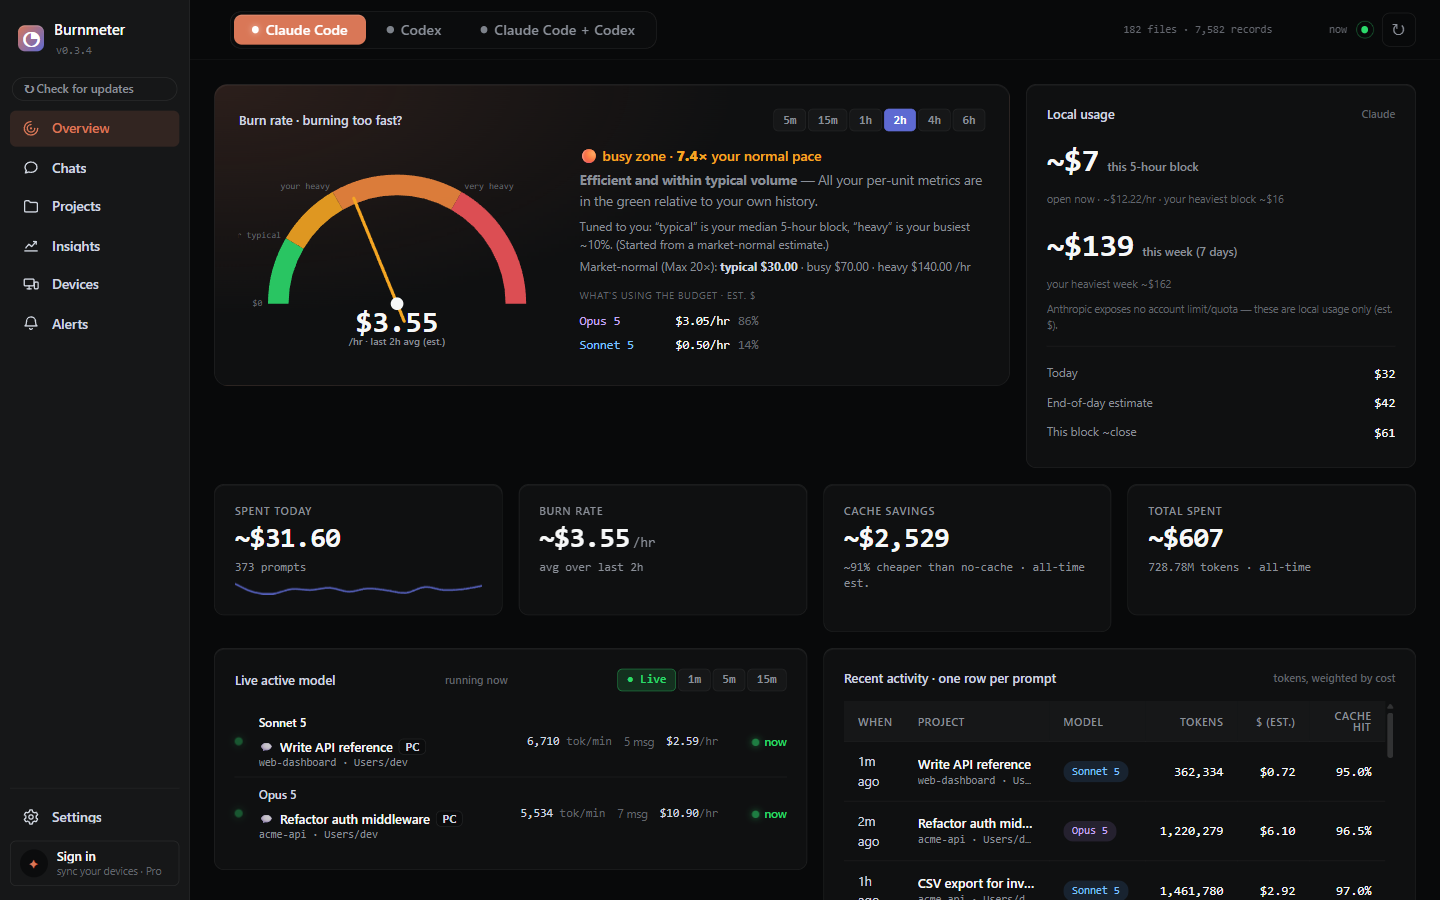
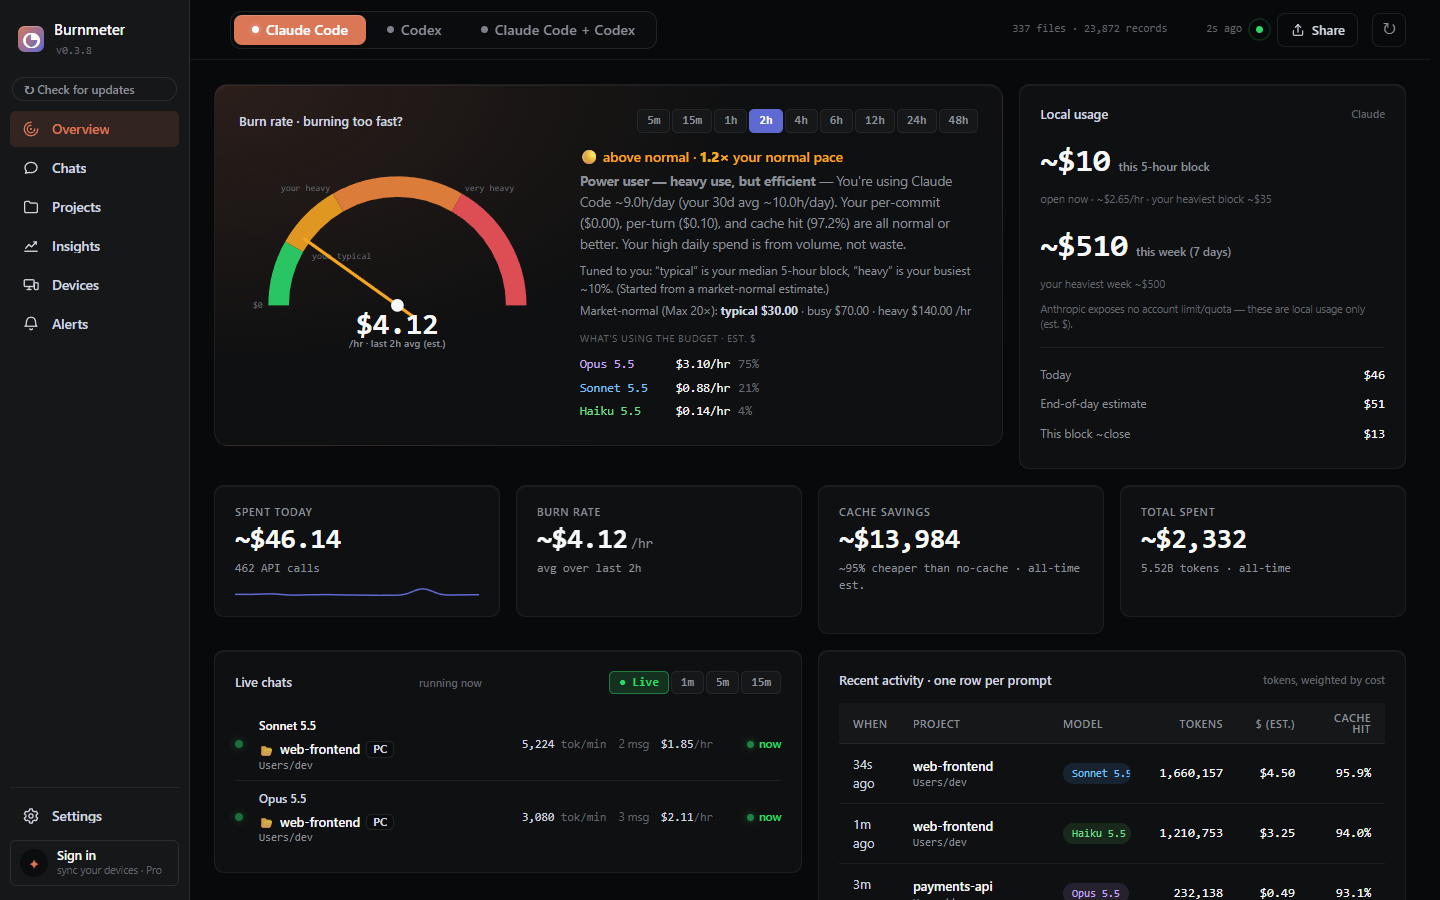
docs(site): current dashboard screenshot; preview label without a version
The burnmeter.dev preview was a v0.3.4 screenshot labelled v0.3.4. It is
now a v0.3.8 screenshot of the synthetic heavy demo logs (burn-rate windows,
live chats), and the label no longer names a version, so it can't go stale.

diff --git a/docs/index.html b/docs/index.html
@@ -197,11 +197,11 @@ footer{border-top:1px solid var(--b1);padding:48px 0 40px}
     <span>Python <b>3.10+</b></span>
   </div>
 
-  <!-- real Burnmeter v0.3.4 screenshot of synthetic demo data — no real usage, projects or chats -->
+  <!-- real Burnmeter v0.3.8 screenshot of synthetic demo data (tests/generate_fixture.py --heavy) — no real usage, projects or chats -->
   <div class="mock">
-    <div class="mock-cap">Dashboard preview · v0.3.4 · synthetic demo data</div>
+    <div class="mock-cap">Dashboard preview · synthetic demo data</div>
     <img class="mock-img" src="dashboard.png" width="1440" height="900" loading="lazy"
-         alt="Burnmeter dashboard: live burn-rate gauge, local usage for the current block and week, today's spend, cache savings, live models and recent activity" />
+         alt="Burnmeter dashboard: live burn-rate gauge, local usage for the current block and week, today's spend, cache savings, live chats and recent activity" />
   </div>
 </div></header>
 
